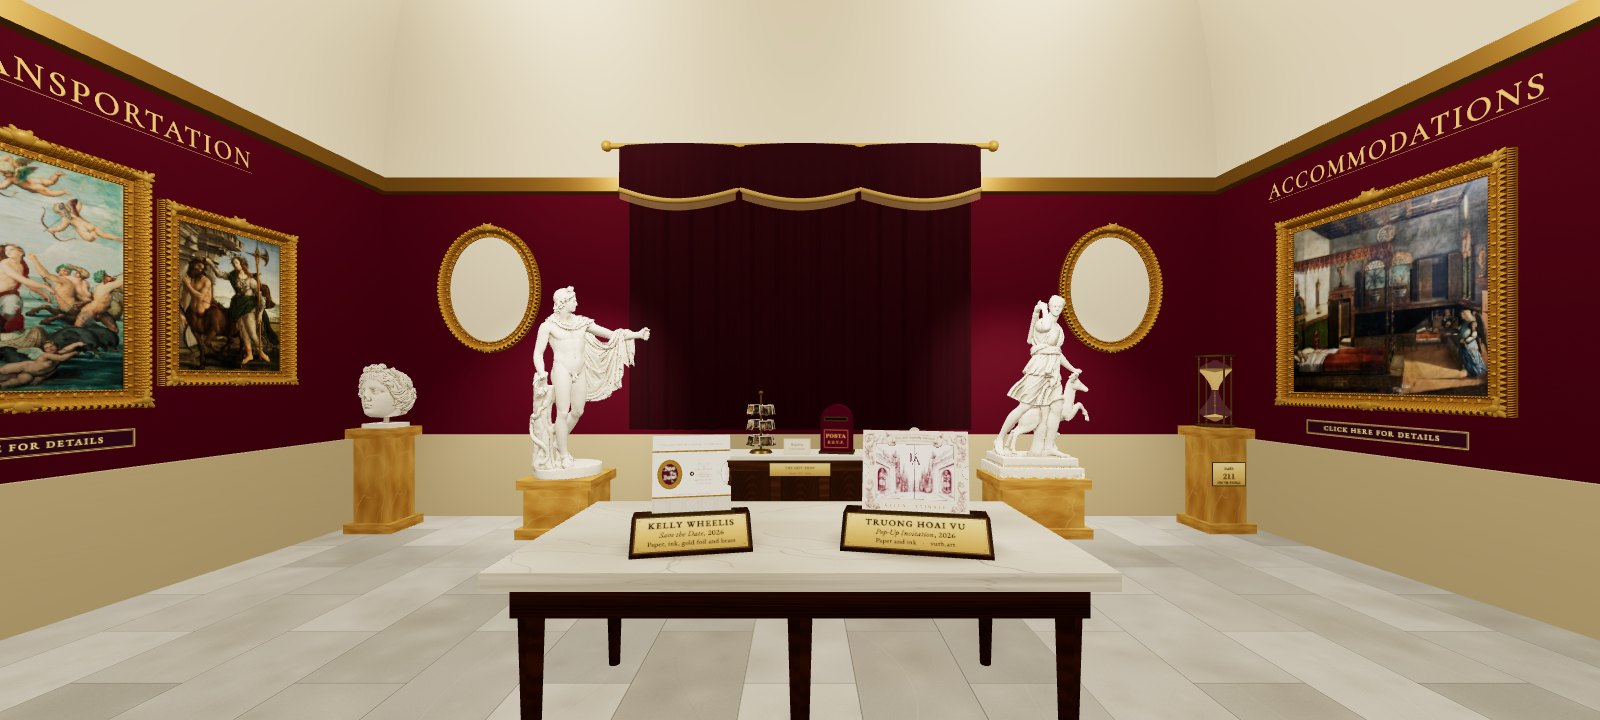
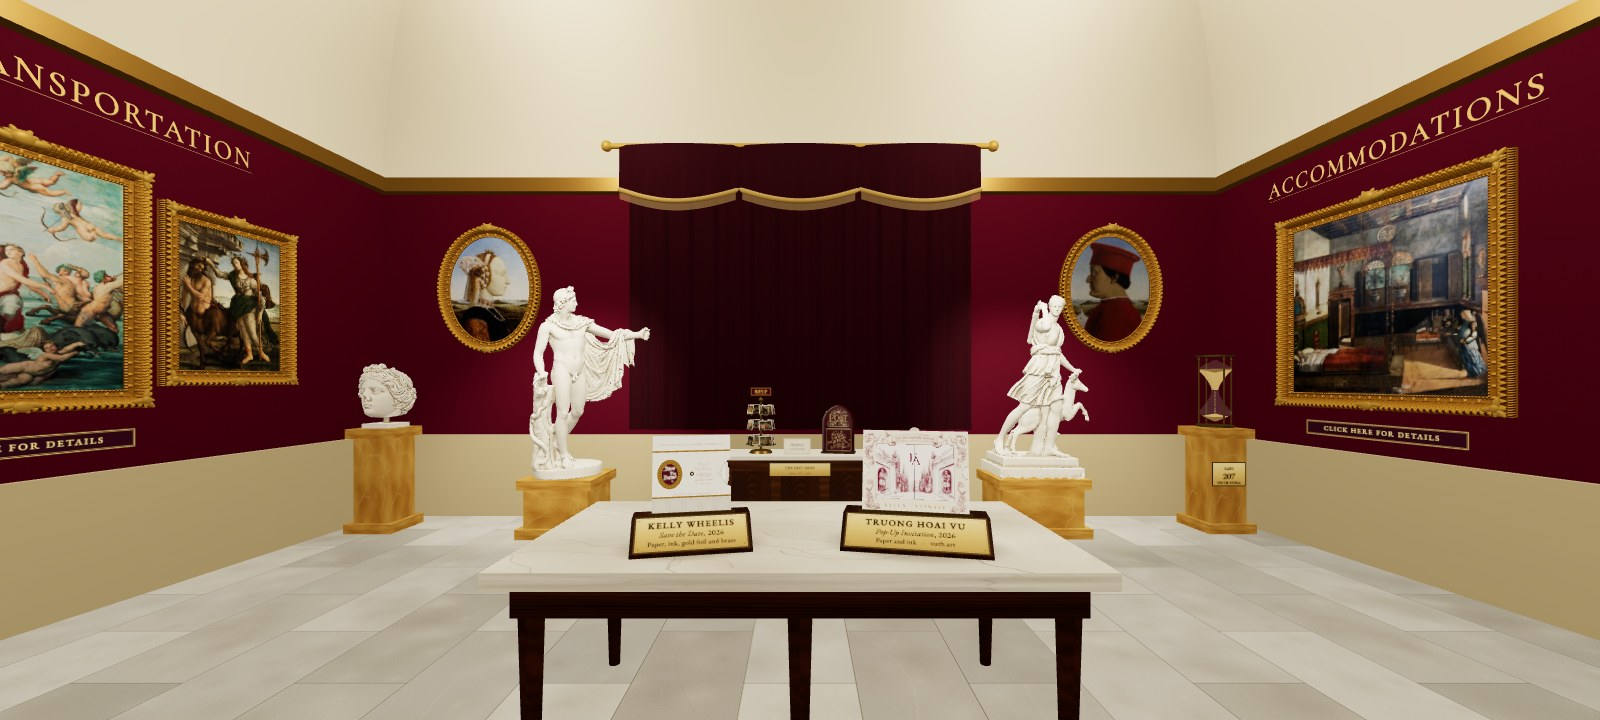
The atrium first: the doors wait only for it, the rest loads behind; the phone caught up
The 3D gallery's doors used to wait for the whole collection (~34 MB). They now wait
only for the atrium (~8 MB live) and its own statues; the wings' and the details room's
paintings, scans, cards and postcards (LATER, by file) load in the background four at a
time, the room the visitor is in or walking to first, then what shows from the atrium,
then the rest. A waiting picture is a plain dark ground until its file lands.

The phone edition: the Duke and Duchess of Urbino beside the centerpiece (and two
gallery-view slides), their credit, and fresh pictures of the details room, the gift
shop (the Alvarez post box, the RSVP sign), the atrium's photo walls, Amelia's card and
the three details-room sculpture cards whose ovals had been empty.

diff --git a/Wedding website planning/mobile/content.js b/Wedding website planning/mobile/content.js
@@ -37,6 +37,18 @@ window.CONTENT = {
      "meta": "Sandro Botticelli, c. 1483–86 · fresco from Villa Lemmi · Musée du Louvre, Paris"
     }
    ],
+   "frames": {
+    "kelly": {
+     "title": "The Kelly Collection",
+     "body": "Portraiture keeps two records: the formal likeness and the unofficial one. The formal one hangs at the center, one of the few serious portraits she has ever allowed. The rest of the wall is the unofficial record: a delighted baby, a banana, Mojo Jojo, an artist and creator, and her dearest friends (and wedding party!). It is, of course, only a glimpse; the collection is too large for any one wall.",
+     "meta": "Photographs, various dates · lent by the sitter"
+    },
+    "anthony": {
+     "title": "Anthony: A Recent Acquisition",
+     "body": "The museum’s newest collection, acquired after a single, decisive swipe. On view: a formal portrait, his family, his best man Nick, and the photograph that sealed the deal. Several frames await works from his early period, currently in storage.",
+     "meta": "Photographs, various dates · on permanent loan"
+    }
+   },
    "photoNotes": {
     "kelly": {
      "eyes": {
@@ -96,13 +108,41 @@ window.CONTENT = {
      }
     },
     "anthony": {
-     "portrait-amsterdam": {"title": "Moments Before", "body": "Amsterdam, about a minute before the proposal. Kelly thought she was taking a nice picture of her boyfriend. He knew what was coming; she didn’t. The curators ask that you look closely at that smile and consider everything he was holding in.", "meta": "Photograph by Kelly · Amsterdam · moments before the question"},
-     "amsterdam-tea": {"title": "After the Question", "body": "Anthony on the stoop of their Amsterdam hotel suite, a few hours after pulling off his surprise proposal. His nerves had earned this: tea, a smoke, and the quiet satisfaction of a plan that worked.", "meta": "Photograph · Amsterdam · the day of the proposal"},
-     "peaky-blinders": {"title": "By Order of the Peaky Blinders", "body": "Anthony as a Peaky Blinder, on one of the rare occasions he has dressed up for Halloween. Kelly was thrilled to help, and would like it noted that she is available again next year.", "meta": "Photograph · Halloween · costume assisted by Kelly"},
-     "paris": {"title": "Paris", "body": "Anthony at the Eiffel Tower, looking entirely unbothered by one of the most famous structures on earth. Obligatory landmark tourist photo: done ✓", "meta": "Photograph · Paris, France"},
-     "proposal-practice": {"title": "Rehearsal", "body": "Anthony practicing his proposal on groomsman Cooper during breaks at work. Cooper, by all accounts, said yes.", "meta": "Photograph · a dress rehearsal · with Cooper, groomsman"},
-     "mishka": {"title": "Anthony and Mishka", "body": "Anthony and Mishka, having a moment. The curators have chosen not to interrupt.", "meta": "Photograph · a private moment"},
-     "gdc-team": {"title": "The Masterworks Team", "body": "Anthony with some of his Masterworks team at GDC, the Game Developers Conference.", "meta": "Photograph · GDC · with the Masterworks team"},
+     "portrait-amsterdam": {
+      "title": "Moments Before",
+      "body": "Amsterdam, about a minute before the proposal. Kelly thought she was taking a nice picture of her boyfriend. He knew what was coming; she didn’t. The curators ask that you look closely at that smile and consider everything he was holding in.",
+      "meta": "Photograph by Kelly · Amsterdam · moments before the question"
+     },
+     "amsterdam-tea": {
+      "title": "After the Question",
+      "body": "Anthony on the stoop of their Amsterdam hotel suite, a few hours after pulling off his surprise proposal. His nerves had earned this: tea, a smoke, and the quiet satisfaction of a plan that worked.",
+      "meta": "Photograph · Amsterdam · the day of the proposal"
+     },
+     "peaky-blinders": {
+      "title": "By Order of the Peaky Blinders",
+      "body": "Anthony as a Peaky Blinder, on one of the rare occasions he has dressed up for Halloween. Kelly was thrilled to help, and would like it noted that she is available again next year.",
+      "meta": "Photograph · Halloween · costume assisted by Kelly"
+     },
+     "paris": {
+      "title": "Paris",
+      "body": "Anthony at the Eiffel Tower, looking entirely unbothered by one of the most famous structures on earth. Obligatory landmark tourist photo: done ✓",
+      "meta": "Photograph · Paris, France"
+     },
+     "proposal-practice": {
+      "title": "Rehearsal",
+      "body": "Anthony practicing his proposal on groomsman Cooper during breaks at work. Cooper, by all accounts, said yes.",
+      "meta": "Photograph · a dress rehearsal · with Cooper, groomsman"
+     },
+     "mishka": {
+      "title": "Anthony and Mishka",
+      "body": "Anthony and Mishka, having a moment. The curators have chosen not to interrupt.",
+      "meta": "Photograph · a private moment"
+     },
+     "gdc-team": {
+      "title": "The Masterworks Team",
+      "body": "Anthony with some of his Masterworks team at GDC, the Game Developers Conference.",
+      "meta": "Photograph · GDC · with the Masterworks team"
+     },
      "selfie": {
       "title": "The Profile Picture",
       "body": "The photograph that started it all. This was Anthony’s dating profile picture, and it is the one that convinced Kelly to swipe right. The curators consider it the most consequential selfie in the collection. (Amelia definitely helped.)",
@@ -113,18 +153,6 @@ window.CONTENT = {
       "body": "Anthony with his best man, Nick, in an early work from their long collaboration. On April 24, Nick will be standing beside him again.",
       "meta": "Photograph, 2011 · the best man"
      }
-    }
-   },
-   "frames": {
-    "kelly": {
-     "title": "The Kelly Collection",
-     "body": "Portraiture keeps two records: the formal likeness and the unofficial one. The formal one hangs at the center, one of the few serious portraits she has ever allowed. The rest of the wall is the unofficial record: a delighted baby, a banana, Mojo Jojo, an artist and creator, and her dearest friends (and wedding party!). It is, of course, only a glimpse; the collection is too large for any one wall.",
-     "meta": "Photographs, various dates · lent by the sitter"
-    },
-    "anthony": {
-     "title": "Anthony: A Recent Acquisition",
-     "body": "The museum’s newest collection, acquired after a single, decisive swipe. On view: a formal portrait, his family, his best man Nick, and the photograph that sealed the deal. Several frames await works from his early period, currently in storage.",
-     "meta": "Photographs, various dates · on permanent loan"
     }
    },
    "artifacts": [
@@ -592,6 +620,24 @@ window.CONTENT = {
      "body": "Ivy and grapes in his hair: the god of wine, as the emperor Hadrian had his beloved Antinous portrayed, at the door to welcome you in. A confession: neither of us drinks. A request: please do not let that stop you. Tuscany makes some of the best wine on earth, and somebody has to enjoy it on our behalf. His bride, Ariadne, is at the far end of the room.",
      "meta": "Roman, c. 130–138 · Vatican Museums (cast at Statens Museum for Kunst, Copenhagen)"
     }
+   ],
+   "ovals": [
+    {
+     "img": "img/det-oval-battista-sforza.jpg",
+     "aspect": 0.76,
+     "title": "Battista Sforza, Duchess of Urbino",
+     "body": "Piero painted the Duke and Duchess of Urbino as a pair, each in profile before the hills of their duchy, looking across at one another. A scholar in her own right, she governed Urbino whenever he was away, and did it well. Here, as in the original, she still has her eyes on him.",
+     "meta": "Piero della Francesca, c. 1473–75 · Gallerie degli Uffizi, Florence",
+     "oval": true
+    },
+    {
+     "img": "img/det-oval-federico-montefeltro.jpg",
+     "aspect": 0.76,
+     "title": "Federico da Montefeltro, Duke of Urbino",
+     "body": "Painted from his good side: a tournament had cost him his right eye. A soldier by trade, and a scholar and collector by choice, he built one of the finest libraries in Italy. From across the room, his eyes are where they belong at a wedding: on his wife.",
+     "meta": "Piero della Francesca, c. 1473–75 · Gallerie degli Uffizi, Florence",
+     "oval": true
+    }
    ]
   }
  ],
@@ -609,6 +655,7 @@ window.CONTENT = {
   ["Pallas and the Centaur, Sandro Botticelli, c. 1482", "Gallerie degli Uffizi, Florence · public domain"],
   ["The Triumph of Galatea, Raphael, c. 1512", "Villa Farnesina, Rome · public domain"],
   ["April (The Triumph of Venus), Francesco del Cossa, c. 1470", "Palazzo Schifanoia, Ferrara · public domain"],
+  ["The Duke and Duchess of Urbino, Federico da Montefeltro and Battista Sforza, Piero della Francesca, c. 1473–75", "Gallerie degli Uffizi, Florence · public domain"],
   ["The Wedding Banquet of Cupid and Psyche, Raphael and workshop, 1518", "Villa Farnesina, Rome · public domain"],
   ["A Dance to the Music of Time, follower of Laurent de La Hyre, 17th century", "Public domain"],
   ["Pleasure Garden with a Maze, Lodewijk Toeput (Pozzoserrato), c. 1579–84", "Royal Collection · public domain"],

diff --git a/Wedding website planning/gallery3d.js b/Wedding website planning/gallery3d.js
@@ -309,25 +309,71 @@ const camera = new THREE.PerspectiveCamera(70, 1, 0.22, 120);   // near 0.22: th
 camera.position.set(0, EYE, 0);
 
 const loader = new THREE.TextureLoader();
+// The atrium first (29 Sept 2026): "Open the doors" waits only for what the atrium needs. The wings' and the details
+// room's paintings, scans and cards (LATER, by file) wait until then and come in the background, four at a time:
+// first those of the room the visitor is in or walking to, then what shows from the atrium through the arch, then the
+// rest. Until its file arrives a waiting picture is a plain dark ground (a see-through one, nothing at all).
+const LATER = [
+  ['w1', /^assets\/(birth-of-venus|w1-|sculpture\/(venus-apple|amor-lyre)\.)/],
+  ['w2', /^assets\/(primavera|w2-|sculpture\/(venus-italica|costanza)\.)/],
+  ['det', /^assets\/(det-|rack\/|invitation\/|volvelle\/|postbox-|sculpture\/(apollo-belvedere|diana|ariadne-head|antinous-dionysus|beatrice)\.)/]];
+const SEEN_FROM_ATRIUM = /^assets\/(invitation\/|volvelle\/|det-oval-|sculpture\/(apollo-belvedere|diana)\.)/;
+const laterRoom = (src) => (LATER.find(([, re]) => re.test(src)) || [])[0];
+const STAGE = { open: false, jobs: [], running: 0 };
+function afterAtrium(src, start) {                                        // start(done) begins a load and calls done once it has arrived or failed
+  const room = laterRoom(src);
+  if (!room) { start(() => {}); return; }
+  STAGE.jobs.push({ src, room, start });
+  pumpLater();
+}
+function pumpLater() {
+  if (!STAGE.open) return;
+  let heading = 'atrium';
+  try { const s = STATIONS[idx]; heading = s.z < P.wingFarZ ? 'det' : s.x < -P.corrX ? 'w1' : s.x > P.corrX ? 'w2' : 'atrium'; } catch (e) { /* not walking yet */ }
+  const rank = (j) => (j.room === heading ? 0 : SEEN_FROM_ATRIUM.test(j.src) ? 1 : 2);
+  while (STAGE.running < 4 && STAGE.jobs.length) {
+    let k = 0;
+    STAGE.jobs.forEach((j, i) => { if (rank(j) < rank(STAGE.jobs[k])) k = i; });
+    const [job] = STAGE.jobs.splice(k, 1);
+    let finished = false;
+    STAGE.running++;
+    job.start(() => { if (finished) return; finished = true; STAGE.running--; pumpLater(); });
+  }
+}
+function releaseLater() { if (STAGE.open) return; STAGE.open = true; pumpLater(); }
+function laterTexture(src) {
+  const c = document.createElement('canvas'); c.width = c.height = 1;
+  if (/\.jpg$/.test(src)) { const x = c.getContext('2d'); x.fillStyle = '#4a3c2e'; x.fillRect(0, 0, 1, 1); }
+  const t = new THREE.Texture(c); t.needsUpdate = true;
+  afterAtrium(src, (done) => new THREE.ImageLoader().load(src, (img) => {
+    t.dispose(); t.source = new THREE.Source(img); t.needsUpdate = true;    // a fresh upload at the picture's own size
+    done();
+  }, undefined, done));
+  return t;
+}
 // the loading line along the top edge, and the note at the foot of the doors: every texture and model goes through
 // three's default manager, so its progress is the collection's
 (function loading() {
   const bar = document.getElementById('loadbar'), note = document.getElementById('hanging'), enter = document.getElementById('enter');
-  if (!bar) return;
+  if (!bar) { THREE.DefaultLoadingManager.onLoad = releaseLater; setTimeout(releaseLater, 45000); return; }
   let done = false;
   const ready = () => {                                                   // "Hanging the collection…" fades out where the button will be, and "Open the doors" fades in
     if (done) return;
     done = true; bar.style.width = '100%';
+    releaseLater();                                                       // and the rest of the collection starts to come in behind
     setTimeout(() => { bar.style.opacity = '0'; if (note) note.style.opacity = '0'; }, 400);
     setTimeout(() => { bar.remove(); if (note) note.remove(); if (enter) { const t = document.getElementById('enterText'); if (t) t.style.opacity = '1'; enter.style.pointerEvents = 'auto'; } }, 1300);   // the box stays; only the words swap
   };
   THREE.DefaultLoadingManager.onProgress = (url, n, total) => { if (!done) bar.style.width = Math.round(100 * n / Math.max(total, 1)) + '%'; };
-  THREE.DefaultLoadingManager.onLoad = ready;
+  // done only once the atrium's statues are in too: their loader arrives separately and may start them after its pictures
+  let busy = true;
+  THREE.DefaultLoadingManager.onStart = () => { busy = true; };
+  THREE.DefaultLoadingManager.onLoad = () => { busy = false; gltfLoaderReady().then(() => setTimeout(() => { if (!busy) ready(); }, 0), ready); };
   setTimeout(() => { if (!done && note) note.textContent = 'Hanging the collection\u2026 a moment more'; }, 8000);
   setTimeout(ready, 45000);                                               // and never keep anyone at the door longer than this
 })();
 const tex = (src, rx, ry) => {
-  const t = loader.load(src);
+  const t = laterRoom(src) ? laterTexture(src) : loader.load(src);
   t.colorSpace = THREE.SRGBColorSpace;
   t.wrapS = t.wrapT = THREE.RepeatWrapping;
   if (rx) t.repeat.set(rx, ry || rx);
@@ -3122,7 +3168,8 @@ function levelBase(model) {
   gltfLoaderReady().then((gltfLoader) => {
     ids.forEach((id) => {
       const cfg = SCULPTURES[id], spot = SCULPTURE_SPOTS[id];
-      gltfLoader.load(cfg.src, (gltf) => {
+      afterAtrium(cfg.src, (done) => gltfLoader.load(cfg.src, (gltf) => {   // the wings' and the details room's scans wait for the atrium
+        done();
         const model = gltf.scene;
         let base = null;
         if (cfg.level) base = levelBase(model);
@@ -3176,7 +3223,7 @@ function levelBase(model) {
           g.userData.station = ST[sid];
           if (typeof paintTally === 'function') paintTally();
         }
-      }, undefined, () => console.warn('sculpture did not load, keeping the placeholder:', cfg.src));
+      }, undefined, () => { done(); console.warn('sculpture did not load, keeping the placeholder:', cfg.src); }));
     });
   }).catch(() => console.warn('sculpture loader unavailable, keeping the placeholders'));
 })();
@@ -4809,7 +4856,7 @@ let shopRack = null;
       ax.drawImage(img, (img.width - sw) / 2, (img.height - sh) / 2, sw, sh, cx + m, cy + m, w, h);
       atlasTex.needsUpdate = true;
     };
-    img.src = 'assets/rack/' + name + '.jpg';
+    afterAtrium('assets/rack/' + name + '.jpg', (done) => { img.addEventListener('load', done); img.addEventListener('error', done); img.src = 'assets/rack/' + name + '.jpg'; });
   });
   const cardMat = new THREE.MeshStandardMaterial({ map: atlasTex, roughness: 0.8, side: THREE.DoubleSide });
   const card = (i) => {
@@ -5164,7 +5211,7 @@ const CURTAIN = { open: false, t: 0, from: 0, halves: [], ties: [], sorry: false
   CURTAIN.redraw = () => draw(img.complete && img.naturalWidth ? img : null);
   img.onload = () => document.fonts.load('700 150px "Cormorant Garamond"').then(() => draw(img), () => draw(img));
   img.onerror = () => draw(null);
-  img.src = 'assets/det-see-you-in-siena.jpg';
+  afterAtrium('assets/det-see-you-in-siena.jpg', (done) => { img.addEventListener('load', done); img.addEventListener('error', done); img.src = 'assets/det-see-you-in-siena.jpg'; });
   try { CURTAIN.sorry = localStorage.getItem('ka-posted-answer') === 'no'; } catch (e) { /* nothing kept */ }
   if (localStorage.getItem('ka-posted')) revealCurtain(true);
 })();

diff --git a/Wedding website planning/mobile/mobile.js b/Wedding website planning/mobile/mobile.js
@@ -75,6 +75,11 @@
   // the details room
   html += `<section class="chapter det" id="det"><div class="hero"><img src="${det.hero}" alt="The details room" loading="lazy" decoding="async"><div class="cap"><h2>${esc(det.title)}</h2><p class="sub">Everything you need to know</p></div></div>
     <div class="text center"><p class="eyebrow">The centerpiece</p><h3>${esc(det.centre.title)}</h3><p class="body">${esc(det.centre.body)}</p><p class="meta">${esc(det.centre.meta)}</p></div>`;
+  // beside it, the Duke and Duchess of Urbino in their gilt ovals, facing each other as they do across the 3D room (she on
+  // the left, he on the right); tap one for its write-up, and it opens as an oval
+  if (det.ovals && det.ovals.length) html += `<div class="text center"><p class="eyebrow">Beside the centerpiece</p></div><div class="ovals">${det.ovals.map((o) => { lbItems.push(o);
+    return `<button class="oval-pic" data-lb="${lbItems.length - 1}" aria-label="${esc(o.title)}"><div class="frame oval"><img src="${small(o.img)}" alt="${esc(o.title)}" loading="lazy" decoding="async" style="--ar:${o.aspect}"></div><h3>${esc(o.title.split(',')[0])}</h3></button>`; }).join('')}</div>
+    <p class="tap under ovals-tap">Tap either to look closer</p>`;
   // the hourglass: the countdown to the wedding, kept to the day as the 3D gallery's plaque is
   if (det.hourglass) {
     const hg = det.hourglass, days = Math.max(0, Math.ceil((hg.wedding - Date.now()) / 86400000));
@@ -441,6 +446,7 @@
   });
   add('det', { kind: 'room', img: wideOf(det.hero), title: det.title, sub: 'Everything you need to know' });
   add('det', { kind: 'text', eyebrow: 'The centerpiece', title: det.centre.title, body: det.centre.body, meta: det.centre.meta });
+  (det.ovals || []).forEach((it) => add('det', { kind: 'art', it }));   // the Duke and Duchess of Urbino, beside it
   if (det.hourglass) add('det', { kind: 'countdown', it: det.hourglass });
   add('det', { kind: 'text', eyebrow: 'Exhibit details · the table', title: det.table.title, body: det.table.body, note: 'Turn your phone upright to handle the save-the-date and the invitation.' });
   const shopSec = det.sections.find((s) => s.key === 'registry');
@@ -458,7 +464,7 @@
   const slideHtml = (s) => {
     switch (s.kind) {
       case 'room': return `<div class="gv-room">${img(s.img, s.title)}<div class="cap">${s.numeral ? `<div class="numeral">${s.numeral}</div>` : ''}<h2>${esc(s.title)}</h2><p class="sub">${esc(s.sub)}</p>${s.it ? '<p class="tap">Tap for the introduction</p>' : ''}</div></div>`;
-      case 'art': return `<figure class="gv-art" data-work>${img(s.it.img, s.it.title)}${cap(s.it)}</figure>`;
+      case 'art': return `<figure class="gv-art${s.it.oval ? ' gv-oval' : ''}" data-work>${img(s.it.img, s.it.title)}${cap(s.it)}</figure>`;
       case 'statue': return `<figure class="gv-statue" data-work>${img(s.it.img, s.it.title)}${cap(s.it)}</figure>`;
       case 'pair': return `<figure class="gv-statue gv-pair" data-work><div>${img(s.it.img, 'Venus')}${img(s.it.img2, 'Mars')}</div>${cap(s.it)}</figure>`;
       case 'countdown': { const days = Math.max(0, Math.ceil((s.it.wedding - Date.now()) / 86400000));

diff --git a/Wedding website planning/tools/harness/extra.js b/Wedding website planning/tools/harness/extra.js
@@ -412,7 +412,7 @@
   }, 800); }
 { const q = new URLSearchParams(location.search);
   // clean=1 : no interface at all, for postcards of the rooms
-  if (q.has('clean')) { const s = document.createElement('style'); s.textContent = '#topLeft,#turn,#hint,#compass,#sections,#back,[data-fwd],[data-back],#nav,#label,#motto,#tally{display:none!important}'; document.head.appendChild(s); } }
+  if (q.has('clean')) { const s = document.createElement('style'); s.textContent = '#topLeft,#turn,#hint,#compass,#sections,#back,[data-fwd],[data-back],#nav,#label,#motto,#tally,#guestBtn{display:none!important}'; document.head.appendChild(s); } }
 { const q = new URLSearchParams(location.search);
   if (q.has('arcadecheck')) { const p = ATRIUM_PICTURES[4]; const st = STATIONS[ST[p.stop]]; document.title = 'arcade:' + !!window.Arcade + ' games:' + (window.Arcade ? Object.keys(Arcade.games).join(',') : '-') + ' stop:' + st.id + ' game:' + st.game + ' mat:' + (scene.children.find((o) => o.userData.station === ST[p.stop]) ? scene.children.find((o) => o.userData.station === ST[p.stop]).children[1].material.map.constructor.name : '?'); } }
 { const q = new URLSearchParams(location.search);
@@ -642,3 +642,16 @@ function fakeGuest(n) {
     document.querySelectorAll('body *').forEach((e) => { if (e !== canvas && !e.contains(canvas)) e.style.visibility = 'hidden'; }); }, 2500); }
 // bincount=1 : how many parts went into each bin
 { const q = new URLSearchParams(location.search); if (q.has('bincount')) setTimeout(() => { const t = document.createElement('pre'); t.style.cssText = 'position:fixed;left:8px;top:60px;z-index:99;background:#000;color:#0f0;font:14px monospace;padding:4px;margin:0'; t.textContent = (window.__binCounts || []).join(' · ') + '\n' + (window.__rej || ''); document.body.appendChild(t); }, 2000); }
+
+{ const q = new URLSearchParams(location.search);
+  // wait=1 : the wings' and the details room's files never arrive, to see what a slow connection shows before they do
+  if (q.has('wait')) releaseLater = () => {}; }
+
+{ const q = new URLSearchParams(location.search);
+  // laterlog=ms : hold the rest of the collection back ms longer, then log the order its files start in (console, "LATER n src"),
+  // to check it follows the visitor (e.g. goto=det first: the details room's files should lead)
+  if (q.has('laterlog')) {
+    let n = 0; const tag = (j) => { const s = j.start; j.start = (d) => { console.log('LATER ' + (++n) + ' ' + j.room + ' ' + j.src); s(d); }; };
+    STAGE.jobs.forEach(tag); const push = STAGE.jobs.push.bind(STAGE.jobs); STAGE.jobs.push = (...js) => { js.forEach(tag); return push(...js); };
+    const rl = releaseLater; releaseLater = () => setTimeout(rl, +q.get('laterlog') || 0);
+  } }

diff --git a/Wedding website planning/mobile/mobile.css b/Wedding website planning/mobile/mobile.css
@@ -130,6 +130,12 @@ main { padding-bottom: calc(var(--nav-h) + env(safe-area-inset-bottom) + 24px); 
 .statue .plinth::after { content: ''; position: absolute; inset: 0; box-shadow: inset 0 -40px 40px -20px rgba(28,22,17,.8); }
 .statue h3 { font-size: 18px; margin-top: 8px; color: var(--cream); }
 .statue .meta { display: none; }
+/* beside the centerpiece: the Duke and Duchess of Urbino, two gilt ovals facing each other (mobile.js, "beside it") */
+.ovals { display: grid; grid-template-columns: 1fr 1fr; gap: 22px; margin: 16px calc(var(--gutter) + 14px) 0; }
+.oval-pic { display: block; align-self: start; text-align: center; }
+.oval-pic .frame { padding: 7%; }
+.oval-pic h3 { font-size: 16px; line-height: 1.25; margin-top: 12px; color: var(--cream); }
+.ovals-tap { text-align: center; margin: 12px var(--gutter) 0; }
 
 /* the details room */
 .chapter.det .text { --ink: var(--cream); }
@@ -285,6 +291,7 @@ body.gv-on #gv { display: block; position: fixed; inset: 0; z-index: 60; backgro
 .gv-slide figcaption h3 { font-size: 18px; color: var(--cream); line-height: 1.2; }
 .gv-slide figcaption .meta { margin: 3px 0 0; font-size: 10px; }
 .gv-art img { display: block; max-width: calc(100vw - 150px); max-height: calc(100dvh - 104px); width: auto; height: auto; border: 5px solid #c9a45c; box-shadow: 0 10px 30px rgba(0,0,0,.6); }
+.gv-oval img { border-radius: 50%; }
 .gv-statue img { display: block; max-height: calc(100dvh - 100px); width: auto; border: 1px solid rgba(201,166,103,.35); }
 .gv-pair > div { display: flex; gap: 12px; }
 .gv-room { position: absolute; inset: 0; }

diff --git a/Wedding website planning/tools/make_mobile_content.py b/Wedding website planning/tools/make_mobile_content.py
@@ -92,7 +92,11 @@ def build(d):
     det = {'id': 'det', 'title': 'Exhibit Details', 'hero': HEROES['det'], 'centre': tbm(st['det']), 'table': tbm(st['detTable']),
            'volvelle': tbm(st['detVolvelle']), 'invite': tbm(st['detInvite']), 'shop': 'img/room-details-shop.jpg',
            'hourglass': {'img': 'img/sc-hourglass.jpg', **tbm(st['sc_hourglass']), 'wedding': d['WEDDING']},   # the countdown is kept live on the phone
-           'sections': sections, 'sculptures': [sculpt(s) for s in DET_SCULPTURE]}
+           'sections': sections, 'sculptures': [sculpt(s) for s in DET_SCULPTURE],
+           # beside the centrepiece: the pictures hung for their own sake (Piero's Duke and Duchess of Urbino), each cropped
+           # as its 3D frame crops it into mobile/img/<name>.jpg and -s.jpg
+           'ovals': [{**pic(p['src'], p['w'] / p['h'], dict(zip(('title', 'body', 'meta'), p['note']))), 'oval': True}
+                     for p in d['DETAIL_PICTURES'] if p.get('direct') and p.get('src') and p.get('note')]}
 
     return {'names': NAMES, 'rooms': [atrium, wing('w1', 'I', 'Wing I', d['W1_PICTURES']), wing('w2', 'II', 'Wing II', d['W2_PICTURES']), det],
             'credits': d['credits'], 'sectionLabel': d['SECTION_LABEL']}

diff --git a/Wedding website planning/HANDOFF.md b/Wedding website planning/HANDOFF.md
@@ -197,7 +197,16 @@ the canvas size and the triangles drawn (`tickFps` in gallery3d.js; nothing is m
   (`#hanging`) sits inside the Open the doors button's outlined box, which is there from the start in its locked
   position, and the button does nothing yet; when loading finishes the note fades out and "Open the doors"
   (`#enterText`) fades in in the same box, and only then does the button work. After 8 s the note becomes
-  "…a moment more"; at 45 s the button is released regardless. (The old note at the foot of the doors is gone.) A
+  "…a moment more"; at 45 s the button is released regardless. (The old note at the foot of the doors is gone.)
+  Since 29 Sept 2026 the doors wait only for the ATRIUM (about 8 MB on the live site instead of ~34): the wings' and
+  the details room's paintings, scans, table cards, postcards and "See you in Siena" card are named by file in
+  `LATER` (top of gallery3d.js, by room) and go through `afterAtrium()`; `releaseLater()` (called when the doors are
+  ready) lets them load in the background four at a time, the room the visitor is in or walking to first (from
+  `STATIONS[idx]`, so "skip to the details" brings the details room first), then `SEEN_FROM_ATRIUM` (the table's
+  cards, the two ovals, Apollo and Diana), then the rest. A waiting picture is a plain dark ground (`laterTexture`; a
+  see-through one shows nothing) and is swapped in place when its file lands. The doors also wait for the atrium's
+  own statues (their loader arrives separately; the `busy` check in `loading()`). A NEW PICTURE FOR A WING OR THE
+  DETAILS ROOM needs a file name that `LATER` matches, or it loads with the atrium. A
   **collection tally** top-left of the view ("Collection · 7 of 54", distinct stop titles, kept in
   localStorage `ka-seen`; `paintTally`/`noteSeen`); the pill's hint changes by room (`HINTS`); the
   details room's ceiling is Tiepolo's *Allegory of the Planets and Continents* sketch
@@ -726,6 +735,14 @@ the phone's tilt, the tab draws the card out), the seven detail sections with th
   localStorage `ka-found` by picture, the same key as the 3D build, so they carry across. The phone copies of
   Primavera, Amaryllis and Good Government were re-made from `assets/` then, as the 23 Sept copies predated the pets.
   "Tap to look closer" sits directly under each frame (the owner's request).
+- **Caught up 29 Sept 2026**: the Duke and Duchess of Urbino (`det.ovals`, from the `direct` DETAIL_PICTURES; phone
+  copies `img/det-oval-<name>.jpg` + `-s.jpg`, cropped as their 3D frames crop them) sit under the centerpiece text as two
+  gilt ovals facing each other (tap: the write-up, opening as an oval) and as two slides after the centerpiece in the
+  gallery view (59 slides now). Re-rendered then: `room-details.jpg`, `room-details-wide.jpg`, `room-details-shop.jpg`
+  (the Alvarez post box and RSVP sign), `room-atrium-hall-wide.jpg` (both photo walls), `art-anthonyAmelia.jpg` (his
+  re-hung wall) and `sc-detStatueL/R`, `sc-detEndL` (the ovals behind them had been empty). The wings, the upright
+  atrium hero, the other cards and the hourglass card were compared and are unchanged. The harness's `clean=1` now
+  hides the guest button too.
 - **The gallery view** (26 Sept 2026, the owner chose it over a phone 3D build): held sideways (`(orientation:
   landscape) and (max-height: 500px)`, past the doors) the guide is hidden and `#gv` shows the museum as a walk, one
   work to a screen: 57 slides built from the same CONTENT (`slides` in mobile.js: each room's wide hero
@@ -938,7 +955,8 @@ _Brought up to date 26 Sept 2026 (after `b5897ba`)._
   writes WebP. Deleted as unused: isabella.glb, the old tex-* textures (wood, ceiling, stone, vault, plaster-warm), the
   ref-* reference photos, postcard-good-government.jpg, and the phone's sc-detEndR.jpg and room-atrium-doors.jpg.
   The painting JPEGs were left as they are: WebP saved almost nothing on them, and harder compression would show.
-  Still possible: load each wing's paintings as a guest heads there (a first visit is ~35 MB, mostly paintings).
+  Done 29 Sept 2026: the doors now wait only for the atrium; the rest loads behind them (see "25 Sept 2026 review
+  batch" in section 4). Sculpture scans were already compressed (gltfpack/meshopt).
 - **Kept out of search engines** (27 Sept 2026, the owner's choice): every response carries `X-Robots-Tag: noindex,
   nofollow, noimageindex` (vercel.json) and the gallery and phone pages a matching robots meta tag (the private page
   already had one). Guests reach the site by its link and the invitation QR codes.
@@ -955,7 +973,8 @@ _Brought up to date 26 Sept 2026 (after `b5897ba`)._
   captions and close-ups; the collection's count rose to 58. They are `direct: true`: one click from anywhere goes to
   their own close-up (as members of the centrepiece's section, a first click had led to the centrepiece, the owner found),
   headed "Exhibit details · beside the centerpiece" (it read "undefined"), and Step back returns to the room's view.
-  Harness `clickw=x,y,z;...` clicks where a point in the world appears on screen, for tests like this. Not on the phone yet (its details show no centrepiece pictures).
+  Harness `clickw=x,y,z;...` clicks where a point in the world appears on screen, for tests like this. On the phone
+  since 29 Sept 2026 (`det.ovals`; see section 4b).
 - **The wall texts** (the "Read the full details" cards; `CARDS` in `api/_private.js`, served only to signed-in
   guests) are placeholder text, most of it "To be confirmed." (the RSVP deadline under Guest Policies was filled
   in 26 Sept 2026); the anecdotes in the pictures' and sculptures' write-ups are drafts.
@@ -1027,6 +1046,7 @@ hooks) to a copy of `gallery3d.js`. Query parameters:
 | `fakeguest=1\|2`, `pcev=1\|ok` | A signed-in household stood in without a server (1: The Sample Family, all four events; 2: Sample Friends, two); open the card's events window, or tick and confirm it. |
 | `tdrag=dx`, `calm` | A simulated finger dragged dx px across the view, then a tap: reports the turn, the lean and whether the tap was ignored. `calm` turns on "Reduce motion". |
 | `texneed=1800` | For every flat picture, the most screen pixels one of its texels covers from any stop, on a view that many device pixels tall (JSON in `<pre id="texneed">`; read it with `--dump-dom`). Under 1: the file is bigger than it is ever drawn. |
+| `wait=1`, `laterlog=ms` | The atrium-first loading: `wait` keeps the wings' and the details room's files from ever arriving (what a slow connection shows first); `laterlog` holds them back ms longer, then logs to the console the order they start in ("LATER n room file"; with `goto=det` the details room's lead). |
 
 **Gotchas learned the hard way**
 - Headless Chrome's virtual clock **never plays animations or CSS transitions**. The hooks step
